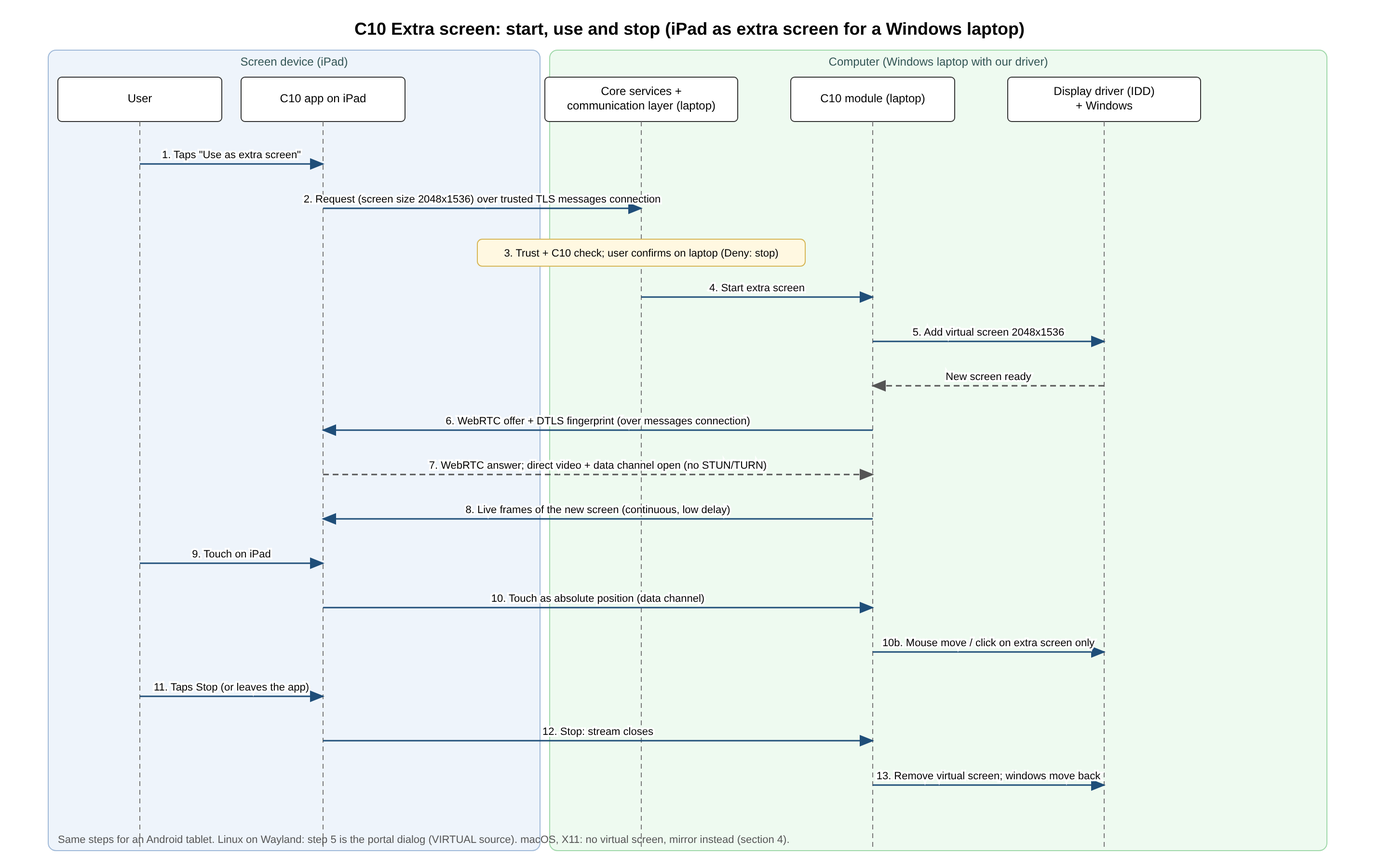
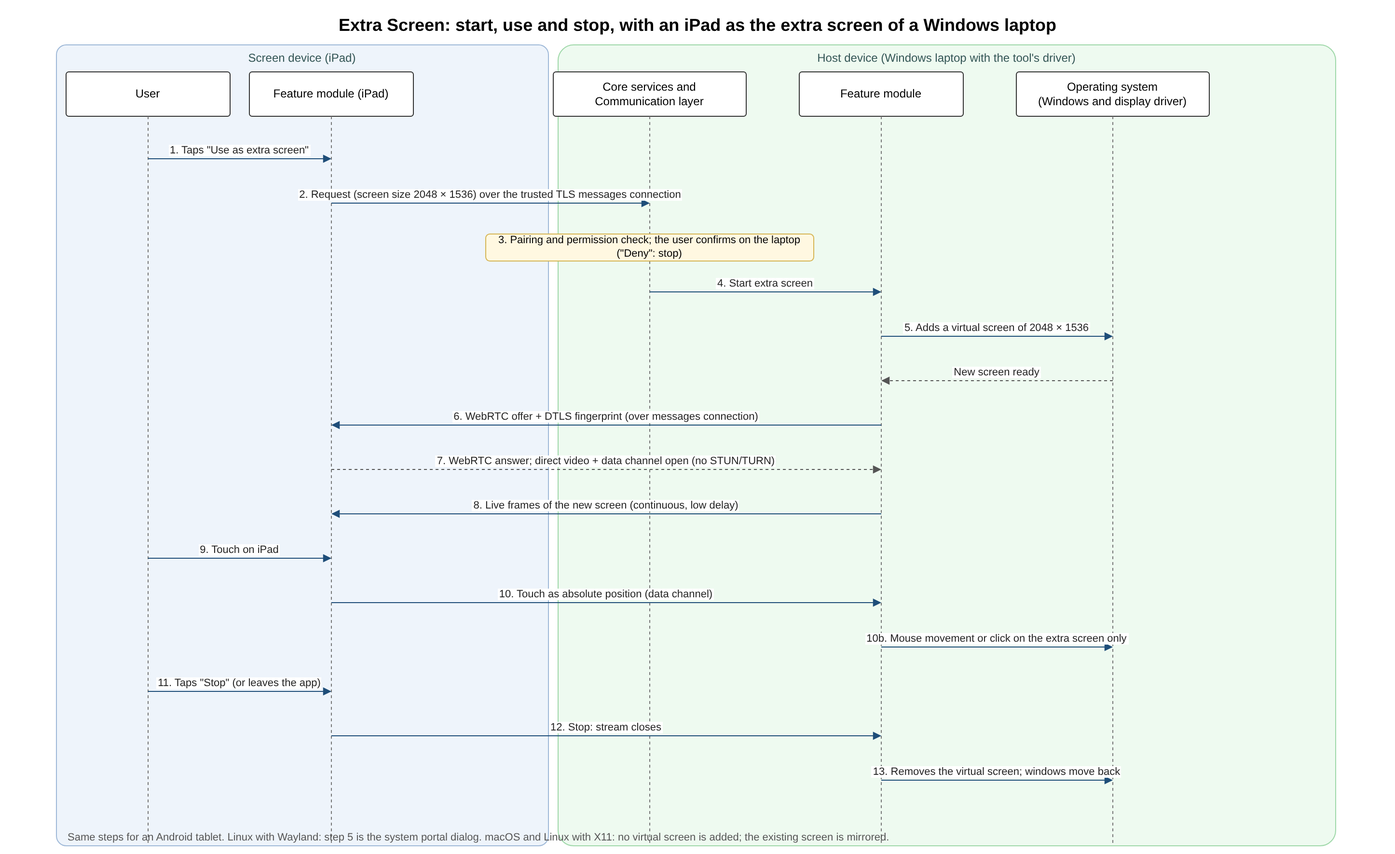
C10: rewrite for the user, state the macOS mirror-only limit and approval on both devices, diagram names from the naming list
Claude-Session: https://claude.ai/code/session_016Gejb1RDNtMpCisQEt9L9p

diff --git a/report/C10-extra-screen.md b/report/C10-extra-screen.md
@@ -1,113 +1,147 @@
-# C10: Extra screen (first version)
+# Extra Screen
 
-Owner: Ahmed. Status: first version, 8 Nov 2026. Phase 1 is design only: no code.
-Use another device (for example an iPad or an Android tablet) as a second monitor for a PC or laptop.
-Names follow `B1-architecture-v2.md` (device app, feature module, core services, communication layer). "Computer" = the PC or laptop that gets the extra screen; "screen device" = the tablet or phone that shows it. **Not checked** = not confirmed in a primary source or not tested. **[PROPOSAL]** = my suggestion, not agreed by the team.
+## 1. What the user sees and gains
 
-## 1. Making an extra virtual screen on the computer
+Extra Screen lets the user turn a tablet or phone they already own into a second monitor for their computer. Instead of buying a monitor, the user places an iPad or Android tablet next to the laptop, taps "Use as extra screen", and can drag windows onto it and use it by touch.
 
-| System | How a new (virtual) screen can be made | What it needs |
+Two devices take part. The **host device** is the PC or laptop that gains the extra screen. The **screen device** is the tablet or phone that shows it.
+
+What the user gets depends on the host device:
+
+- On **Windows** (with the tool's own signed display driver) and on **Linux with Wayland** (where the desktop offers a virtual monitor), the tool adds a **true extra screen**: the computer treats the tablet as a new monitor and the desktop becomes larger.
+- **macOS has no public way** for an app to add a screen, so on a Mac the tool **mirrors** the existing screen instead: the tablet shows a copy of the Mac's screen. The same happens on any other computer where an extra screen cannot be added, and the tool tells the user so.
+
+The user stays in control at all times:
+
+- The user must approve on **both devices, every time** a session starts: once on the screen device by tapping "Use as extra screen", and once on the host device by choosing "Allow". Nothing is remembered between sessions.
+- Either device can stop the session at any moment. When it stops, the extra screen is removed and its windows move back to the main screen, so nothing is lost on a screen nobody can see.
+- The picture travels only between the user's own paired devices on the local network, encrypted, and is never stored.
+
+## 2. Adding an extra screen on the host device
+
+| Operating system | How a new (virtual) screen can be added | What it needs |
 |---|---|---|
-| **Windows** | The **Indirect Display Driver (IDD)** model: "a simple user-mode driver model to support monitors that aren't connected to traditional GPU display outputs", listed for "creating virtual monitors" and "streaming the display output over a network to a remote client". Checked (Microsoft docs). Spacedesk works this way (its own driver). | **A driver.** It is user mode (UMDF), so no kernel code, but it must be installed (administrator) and signed. Microsoft: since Windows 10 1607 new kernel-mode drivers must be "signed by the Dev Portal"; "attestation signing supports Windows Desktop kernel mode and user mode drivers" and needs "an extended validation (EV) code signing certificate" through Partner Center; attestation is "for testing purposes only", retail needs the Hardware Compatibility Program (HLK tests). For development, `bcdedit -set TESTSIGNING ON` lets test-signed drivers load (shows "Test Mode"). Checked (Microsoft docs). That a **user-mode** IDD is bound by the same rule as kernel drivers: searched, not found (the UMDF signing page could not be opened). The cost of an EV certificate: **not checked**. |
-| **macOS** | **No public API found.** Apple documents no way for an app to add a display. Tools that do it use `CGVirtualDisplay`, which is **not in Apple's public documentation** (checked 8 Nov: Apple's doc data for it returns 404, while a public class like `CGDisplayStream` returns 200). Spacedesk has a macOS driver in beta (macOS 14.4+) with "Desktop Extension or Desktop Duplication (mirror)" settings; how it creates the screen: searched spacedesk's manual, not found. Apple's own way is Sidecar (iPad only). | A **private API** (not allowed on the Mac App Store, may break with any update). **[PROPOSAL]:** not used in v1; macOS gets mirroring (section 4). |
-| **Linux (X11)** | `xrandr --setmonitor` only defines a monitor over **existing** outputs (xrandr man page). Ways to get a new output: the **EVDI** kernel module ("a Linux kernel module that enables management of multiple screens", "compatible with a standard Linux DRM subsystem", so xrandr can drive it; DisplayLink README), or the old `intel` X driver option `VirtualHeads` ("the number of fake outputs to create"). Checked (docs). The `dummy` X driver: man page could not be opened, **not checked**. | A **kernel module** (EVDI, must be built for each kernel; not checked) or a specific X driver. **[PROPOSAL]:** not in v1, mirror instead. |
-| **Linux (Wayland)** | The ScreenCast portal has a source type **`VIRTUAL`: "Extend with new virtual monitor"** (next to `1: MONITOR` "Share existing monitors" and `2: WINDOW`; `VIRTUAL` is `4`). The desktop creates the monitor and gives us its picture; the user approves in the system dialog. Checked (xdg-desktop-portal docs). Which desktops offer it: **GNOME** (`xdg-desktop-portal-gnome` handles `SCREEN_CAST_SOURCE_TYPE_VIRTUAL` and asks Mutter for a `virtual_monitor`) and **KDE Plasma** (`xdg-desktop-portal-kde` has "Virtual Output" with a resolution picker); **not** `xdg-desktop-portal-wlr` (Sway and other wlroots desktops: only MONITOR and WINDOW). Checked in the portals' source code (8 Nov); which release first had it: **not checked**. KDE has a bug report about the size being fixed at 1920x1080. | **No driver.** Same portal as C9, so the same dialog. The `persist_mode` option can remember the approval ("until explicitly revoked"). |
+| **Windows** | The **Indirect Display Driver** model: a driver model that runs in user mode, made for monitors that are not connected to a graphics card output, including "creating virtual monitors" and "streaming the display output over a network to a remote client". Spacedesk works in this way, with its own driver. | **A signed driver.** It runs in user mode, so it contains no kernel code, but it must be installed by an administrator and signed. Since Windows 10 version 1607, new kernel-mode drivers must be signed through Microsoft's developer portal. Attestation signing covers kernel-mode and user-mode drivers and needs an extended validation (EV) code signing certificate; it is meant for testing, and a public release needs the Windows Hardware Compatibility Program. For development, test signing mode lets a test-signed driver load and shows "Test Mode" on the desktop. |
+| **macOS** | **No public way.** Apple documents no way for an app to add a display. Tools that do so use `CGVirtualDisplay`, which is not in Apple's public documentation. Spacedesk offers a macOS driver in beta (macOS 14.4 and later) with an extend and a mirror setting. Apple's own way is Sidecar, which works only with an iPad. | A **private interface**, which is not allowed on the Mac App Store and may stop working with any update. The tool does not use it, so on macOS the tool **mirrors** the screen (section 5). |
+| **Linux with X11** | `xrandr --setmonitor` only divides **existing** outputs. A new output needs the **EVDI** kernel module (which works with the standard Linux display system, so xrandr can drive it) or the `VirtualHeads` option of the old `intel` X driver, which creates "fake outputs". | A **kernel module** that must be built for each kernel, or a specific X driver. Not used in the first release: the tool mirrors instead. |
+| **Linux with Wayland** | The ScreenCast portal has a source type **"Extend with new virtual monitor"** (`VIRTUAL`). The desktop creates the monitor and passes its picture to the tool, after the user approves in the system dialog. GNOME (`xdg-desktop-portal-gnome`) and KDE Plasma (`xdg-desktop-portal-kde`, with a resolution picker) support it; the portal used by Sway and other wlroots desktops (`xdg-desktop-portal-wlr`) does not. KDE has a reported bug that fixes the size at 1920 × 1080. | **No driver.** The same portal and system dialog as Screen Sharing and Remote Control. The portal could remember the approval (`persist_mode`), but the tool does not use this (section 4). |
 
-Nobody in the team has a Mac or a Linux machine (A10): every macOS and Linux claim here is from the docs only, not tested.
+**Result.** A true extra screen is possible on **Windows, with the tool's own signed driver**, and on **Linux with Wayland, through the system portal and without a driver**. macOS has no public way, and Linux with X11 would need an extra kernel module, so on both the tool mirrors the screen.
 
-**Result:** a true extra screen is possible on **Windows (with our own driver)** and **Linux on Wayland (through the portal, no driver)**. macOS and Linux on X11 would need a private API or an extra driver.
+## 3. What the screen device can do
 
-## 2. What the screen device can do
-
-| Device | Show the stream | Send touch back as mouse | Limits |
+| Screen device | Showing the stream | Sending touch back as mouse input | Limits |
 |---|---|---|---|
-| **iPad** | Yes, while our app is open (WebRTC video, `flutter_webrtc`, B6). | Yes: our app reads the touches and sends them; the **computer** moves the mouse (C9 input, section 3). | **Foreground only**: when the user leaves the app or the iPad locks, iOS suspends the app and the stream stops (B6 section 6). `isIdleTimerDisabled` keeps the screen from sleeping while the app is open (Apple docs, meta text only; full page **not checked**). Apple Pencil pressure and hover: **not used in v1**. An iPad can never be the *computer* side: no public API to add a display or to control it (C9). |
-| **iPhone** | Same as iPad. | Same. | Same; small screen. **[PROPOSAL]:** allowed, but not the main case. |
-| **Android tablet** | Yes. | Yes, same as iPad. | Receiving needs no special permission. Keep the screen on with `FLAG_KEEP_SCREEN_ON` on our activity; Android docs: if the app "goes into the background, the system allows the screen to turn off normally". Checked. Background is not needed: the user is looking at it. |
+| **iPad** | Yes, while the app is open (WebRTC video through `flutter_webrtc`). | Yes. The app reads the touches and sends them; the host device moves the mouse (the same input path as Screen Sharing and Remote Control). | Works **only while the app is in front**: when the user leaves the app or the iPad locks, iOS suspends the app and the stream stops. `isIdleTimerDisabled` keeps the screen awake while the app is open. Apple Pencil pressure and hover are not used in the first release. An iPad can never be the host device, because there is no public way to add a display to it or to control it. |
+| **iPhone** | Same as iPad. | Same as iPad. | Same as iPad, with a small screen. Allowed, but not the main case. |
+| **Android tablet** | Yes. | Yes, as on the iPad. | Receiving needs no special permission. The app keeps the screen on with `FLAG_KEEP_SCREEN_ON`; if the app goes into the background, the screen may turn off normally. Background work is not needed, because the user is looking at the screen. |
 
-## 3. The stream: what is the same as C9, what is different
-**Same:** WebRTC as decided in B6 final (choice 3): setup messages over our trusted TLS messages connection, no STUN or TURN, DTLS fingerprint inside that connection, only between trusted devices (C1, C11). Touch and keyboard go on the WebRTC data channel.
+## 4. The stream
 
-**Different from screen sharing:**
-- **Continuous and low delay.** It is used like a monitor, so the target is **under 100 ms** from drawing to showing on the same Wi-Fi **[PROPOSAL, to test in Phase 2]**. When Wi-Fi is slow, lower the quality, not the frame rate first (WebRTC already adapts).
-- **Resolution comes from the screen device.** The virtual screen is created at the tablet's size (e.g. 2048x1536 for a common iPad, 1920x1200 for a tablet) so there is no scaling. Mirroring (section 4) uses the computer's size and adds black bars.
-- **The mouse can reach the extra screen.** In extend mode the OS treats it as a normal monitor; the user drags windows onto it. Touch on the tablet becomes an absolute mouse position on **that screen only** (Wayland: `NotifyPointerMotionAbsolute` on the stream, checked in the RemoteDesktop portal docs; Windows: `SendInput` as in C9).
-- **Approval: the user on both devices, every time** (C11 table and SEC-3). The user starts it on the screen device ("Use as extra screen") and confirms on the computer ("iPad wants to be an extra screen: Allow / Deny"). Plus the OS dialog where the OS demands it (Wayland portal, macOS Screen Recording). Nothing is remembered between sessions in v1 (Wayland `persist_mode` stays 0) **[PROPOSAL]**.
-- **Stops cleanly.** When the stream stops, the computer **removes** the virtual screen so windows move back and are not lost on an invisible monitor.
+**Shared with Screen Sharing and Remote Control.** The picture is sent with WebRTC, as decided in the Technology Choices chapter. The setup messages travel over the trusted messages connection, no STUN or TURN server is used, the DTLS fingerprint travels inside that connection, and sessions run only between paired devices. Touch and keyboard input travel on the WebRTC data channel.
 
-## 4. Fallback: mirror when a virtual screen is not possible
-If the computer cannot add a screen, the app **mirrors** an existing one (C9 capture, with the same approval on both devices every time, SEC-3). The user is told "Extra screen is not available on this computer; showing a copy of your screen".
+**Different from Screen Sharing and Remote Control:**
 
-| Computer | v1 gets |
+- **Continuous, with low delay.** The extra screen is used like a monitor, so the target is a delay **under 100 ms** from drawing to showing on the same Wi-Fi, to be tested in Phase 2. When the Wi-Fi is slow, the picture quality is lowered before the frame rate (WebRTC already adapts).
+- **The size comes from the screen device.** The virtual screen is created at the tablet's size (for example 2048 × 1536 for a common iPad, or 1920 × 1200 for an Android tablet), so the picture is not scaled. When mirroring (section 5), the host device's size is used and black bars are added.
+- **The mouse can reach the extra screen.** When the screen is extended, the operating system treats it as a normal monitor, and the user drags windows onto it. A touch on the tablet becomes an absolute mouse position on that screen only (on Wayland with `NotifyPointerMotionAbsolute` of the RemoteDesktop portal; on Windows with `SendInput`).
+- **Approval on both devices, every time.** The user starts the session on the screen device ("Use as extra screen") and confirms it on the host device ("iPad wants to be an extra screen: Allow / Deny"). The operating system's own dialog is added where the system requires one (the Wayland portal dialog, or Screen & System Audio Recording on macOS). Nothing is remembered between sessions: the portal's `persist_mode` is not used.
+- **A clean stop.** When the stream stops, the host device removes the virtual screen, so windows move back and are not lost on a monitor nobody can see.
+
+## 5. Mirroring when an extra screen cannot be added
+
+If the host device cannot add a screen, the tool **mirrors** an existing screen, using the same capture as Screen Sharing and Remote Control and the same approval on both devices every time. The user sees "Extra screen is not available on this computer; showing a copy of your screen".
+
+| Host device | First release |
 |---|---|
-| Windows 10/11 | **Extend** if our driver is installed; otherwise **mirror** |
-| Linux on Wayland (portal with `VIRTUAL`) | **Extend** |
-| Linux on Wayland without `VIRTUAL` (Sway and other wlroots desktops) | **Mirror** |
-| Linux on X11 | **Mirror** |
-| macOS | **Mirror** (Apple users can use Sidecar for extend) |
-| Android, iPhone, iPad as computer | **Not offered** (they are screen devices only) |
+| Windows 10 and 11 | **Extend** when the tool's signed driver is installed; otherwise **mirror** |
+| Linux with Wayland, desktop offers a virtual monitor (GNOME, KDE Plasma) | **Extend** |
+| Linux with Wayland, desktop without a virtual monitor (Sway and other wlroots desktops) | **Mirror** |
+| Linux with X11 | **Mirror** |
+| macOS | **Mirror only** (Apple's Sidecar remains available to iPad owners who want to extend) |
+| Android, iPhone, iPad | **Not offered**: these are screen devices only |
 
-Capability flags for C1 / B1 rule 5 **[PROPOSAL]**: a computer advertises `extra-screen: extend` or `extra-screen: mirror`; a device that can show the stream advertises `extra-screen-viewer`. The screen device shows the right button.
+Each host device tells the other devices whether it offers extend or mirror, and each device that can show the stream says so, so the screen device shows the right button.
 
-## 5. Compared with Spacedesk and Apple Sidecar (A5)
+## 6. Comparison with Spacedesk and Apple Sidecar
 
-| | Spacedesk | Apple Sidecar | Our C10 |
+| | Spacedesk | Apple Sidecar | Extra Screen in this tool |
 |---|---|---|---|
-| Computer | Windows 10/11 (macOS 14.4+ beta) | Mac, macOS 10.15+ | Windows (extend), Linux (extend or mirror), macOS (mirror) |
-| Screen device | Android, iOS, Windows, browser | iPad only (iPadOS 13+) | iPad, iPhone, Android tablet |
-| Connection | LAN, no account | Same Apple Account, wireless within 10 m or USB | Our trusted pairing (C1), local network only |
-| Touch back | Yes (touch or mouse) | Pencil; more touch from 27 | Touch as mouse; Pencil not in v1 |
+| Host device | Windows 10 and 11 (macOS 14.4 and later in beta) | Mac, macOS 10.15 and later | Windows (extend), Linux (extend or mirror), macOS (mirror only) |
+| Screen device | Android, iOS, Windows, web browser | iPad only (iPadOS 13 and later) | iPad, iPhone, Android tablet |
+| Connection | Local network, no account | Same Apple Account, wireless within 10 m or USB | The tool's own pairing, local network only |
+| Touch back | Yes (touch or mouse) | Apple Pencil; wider touch support from version 27 | Touch as mouse; Apple Pencil not in the first release |
 
-**We copy:** the driver approach on Windows (Spacedesk); one-tap start and removing the screen at the end (Sidecar).
-**We do differently:** no Apple account needed and mixed brands; the stream uses our pairing and encryption, not an open LAN service (Spacedesk needs a password to allow keyboard input from phones); honest mirror fallback where extend is not possible.
+**Taken from these products:** the driver approach on Windows (Spacedesk), and the one-tap start and the removal of the screen at the end (Sidecar).
 
-## 6. Starting an extra screen, step by step
-Diagram: `diagrams/C10-extra-screen-sequence.drawio` (PNG export next to it). Example: Windows laptop with our driver, iPad as extra screen.
+**Done differently:** no Apple account is needed and devices of different brands work together; the stream uses the tool's own pairing and encryption rather than an open network service (Spacedesk needs a password before it accepts keyboard input from phones); and the tool openly falls back to mirroring where extending is not possible.
 
-![C10 sequence](../diagrams/C10-extra-screen-sequence.png)
+## 7. Starting an extra screen, step by step
 
-- Steps 1-2: The user taps "Use as extra screen" on the iPad; the request goes over the trusted messages connection to the laptop.
-- Step 3: The laptop's core services check the iPad is trusted and C10 is allowed for it (C11), and the user confirms on the laptop (SEC-3). If the user taps Deny, or nobody answers, nothing more happens and the iPad shows "Not allowed".
-- Steps 4-5: The C10 module asks the driver for a new screen at the iPad's size; Windows adds it.
-- Steps 6-7: WebRTC setup messages (offer, answer, fingerprint) go over the messages connection; the video and data channel open directly.
-- Step 8: Frames of the new screen stream to the iPad.
-- Steps 9-10: A touch on the iPad goes back on the data channel; step 10b: it becomes a mouse move or click on that screen only.
-- Steps 11-13: Stop (either side, or the iPad app leaves the front): the stream closes and the laptop removes the virtual screen.
+The diagram shows a Windows laptop with the tool's driver as the host device and an iPad as the screen device.
 
-## 7. Requirements
-1. The app must let a trusted device be used as an extra screen only between devices of the same user that are paired (C1) and on the local network (B1 rules 1 and 2).
-2. The app must create a virtual screen at the screen device's resolution where the computer allows it (Windows with our driver, Linux Wayland portal `VIRTUAL`).
-3. The app must fall back to mirroring an existing screen where a virtual screen cannot be created, and tell the user so.
-4. The app must advertise `extra-screen: extend`, `extra-screen: mirror` or `extra-screen-viewer` for each device (B1 rule 5, C1).
-5. The app must send the screen as a WebRTC stream set up over the trusted messages connection, with no STUN or TURN servers (B6 choice 3).
-6. The app must turn touches on the screen device into mouse events on the extra screen only.
-7. The app must remove the virtual screen when the session ends for any reason, so no window is left on a screen nobody sees.
-8. The app must keep the screen device awake while it shows the extra screen, and stop the session when the app leaves the foreground on iPhone/iPad.
-9. The app must let the user stop the extra screen from either device at any time.
-10. The app must ask for the OS permission where the OS demands it (Wayland portal dialog, macOS Screen Recording), and must not use private APIs in v1.
-11. The app must ask the user on both devices every time before an extra screen starts (C11 SEC-3), and must never store the frames (C11 SEC-6).
+![Extra Screen: start, use and stop](../diagrams/C10-extra-screen-sequence.png)
 
-## Open points and who settles them
-- Windows driver: for Phase 2 a test-signed driver on our own test PC is enough; a public release needs an EV certificate and Microsoft signing. Mahmoud decides if Phase 2 goes beyond test signing; if not, other Windows PCs get mirror only.
-- Test that `VIRTUAL` works on Ubuntu 24.04 GNOME (whoever gets the Linux machine, B6 point 4).
-- macOS: test needs a Mac with Xcode (B6 decision 15, still open).
-- Delay target (100 ms) and test devices: A10 evaluation plan (Ahmed).
-- Per-feature permission for C10 and stream encryption: C11 (Ali). This file answers C11's open point "C10 approval": user on both devices, every time.
-- Capability flag names: C1 (Mahmoud).
-- WebRTC with no internet at all, app size, and whether capture needs native code (B6 final, still open).
+1. and 2. The user taps "Use as extra screen" on the iPad. The request, with the iPad's screen size, goes to the laptop over the trusted messages connection.
+3. The laptop's core services check that the iPad is paired and that Extra Screen is allowed for it, and the user confirms on the laptop. If the user chooses Deny, or nobody answers, nothing more happens and the iPad shows "Not allowed".
+4. and 5. The laptop's feature module asks the display driver for a new screen at the iPad's size, and Windows adds it.
+6. and 7. The WebRTC setup messages (offer, answer and fingerprint) travel over the messages connection; the video and the data channel then open directly between the two devices.
+8. Pictures of the new screen stream to the iPad.
+9. and 10. A touch on the iPad travels back on the data channel and becomes a mouse movement or click on the extra screen only.
+11. to 13. Either side taps Stop, or the iPad app leaves the front. The stream closes and the laptop removes the virtual screen.
 
-## Sources (opened 8 Nov 2026, read as text)
-- Windows IDD model: https://learn.microsoft.com/en-us/windows-hardware/drivers/display/indirect-display-driver-model-overview
-- xdg-desktop-portal ScreenCast (`VIRTUAL`, `persist_mode`): https://flatpak.github.io/xdg-desktop-portal/docs/doc-org.freedesktop.portal.ScreenCast.html
-- xdg-desktop-portal RemoteDesktop (`NotifyPointerMotionAbsolute`): https://flatpak.github.io/xdg-desktop-portal/docs/doc-org.freedesktop.portal.RemoteDesktop.html
-- KDE bug, virtual monitor fixed at 1920x1080: https://bugs.kde.org/show_bug.cgi?id=512620
-- xrandr man page: https://man.archlinux.org/man/xrandr.1
-- Apple Sidecar (requirements, same Apple Account, wireless within 10 m or USB, Pencil, expanded touch from iPadOS/macOS 27): https://support.apple.com/102597
-- Apple `isIdleTimerDisabled`: https://developer.apple.com/documentation/uikit/uiapplication/isidletimerdisabled
-- Apple `CGVirtualDisplay`: https://developer.apple.com/tutorials/data/documentation/coregraphics/cgvirtualdisplay.json returns 404 (not public); compare https://developer.apple.com/tutorials/data/documentation/coregraphics/cgdisplaystream.json (200)
-- Windows driver signing: https://learn.microsoft.com/en-us/windows-hardware/drivers/install/kernel-mode-code-signing-policy--windows-vista-and-later- ; https://learn.microsoft.com/en-us/windows-hardware/drivers/dashboard/driver-signing-offerings ; https://learn.microsoft.com/en-us/windows-hardware/drivers/dashboard/code-signing-attestation ; https://learn.microsoft.com/en-us/windows-hardware/drivers/install/the-testsigning-boot-configuration-option
-- Linux EVDI: https://github.com/DisplayLink/evdi ; intel(4) `VirtualHeads`: https://manpages.debian.org/testing/xserver-xorg-video-intel/intel.4.en.html
-- Portal source code (VIRTUAL support): https://github.com/GNOME/xdg-desktop-portal-gnome (`src/screencast.c`), https://github.com/KDE/xdg-desktop-portal-kde (`src/screencast.cpp`), https://github.com/emersion/xdg-desktop-portal-wlr (`src/screencast/`)
-- Android keep screen on: https://developer.android.com/develop/background-work/background-tasks/awake/screen-on
-- Spacedesk manual: https://manual.spacedesk.net/ ; system requirements: https://manual.spacedesk.net/SystemRequirements1.html ; touch, pen and keyboard input (touch as touch or emulated mouse; keyboard from Android/iOS viewers only with encryption/password, from version 2.2.11): https://manual.spacedesk.net/MouseKeyboardTouchscreenAndPenIn.html
-- Team files: `research/A5-existing-systems.md` (main), `B6-technology-final.md` (PR #42), C9 final (`report/C9-screen-sharing.md`, PR #51: section 3 WebRTC, section 6 requirements), `C11-security-privacy.md` (PR #49, table line for C10, SEC-3, SEC-6).
+An Android tablet follows the same steps. On Linux with Wayland, step 5 is the system portal dialog. On macOS and Linux with X11, no virtual screen is added and the existing screen is mirrored (section 5).
+
+## 8. Requirements
+
+1. The tool must allow a device to be used as an extra screen only between paired devices of the same user on the local network.
+2. The tool must add a true extra screen at the screen device's size on Windows (with the tool's own signed display driver) and on Linux with Wayland (where the desktop offers a virtual monitor).
+3. The tool must mirror the existing screen on macOS, and wherever an extra screen cannot be added, and must tell the user so.
+4. The tool must tell the other devices whether a host device offers extend or mirror, and whether a device can show the stream.
+5. The tool must send the screen as a WebRTC stream set up over the trusted messages connection, with no STUN or TURN server.
+6. The tool must turn touches on the screen device into mouse input on the extra screen only.
+7. The tool must remove the virtual screen when the session ends for any reason, so that no window is left on a screen nobody can see.
+8. The tool must keep the screen device awake while it shows the extra screen, and must stop the session when the app leaves the front on iPhone and iPad.
+9. The tool must let the user stop the extra screen from either device at any time.
+10. The tool must ask for the operating system's permission where the system requires it (the Wayland portal dialog, Screen & System Audio Recording on macOS), and must not use private interfaces in the first release.
+11. The tool must ask the user on both devices, every time, before an extra screen starts, and must never store the pictures.
+
+## 9. Limits and points still to verify
+
+No member of the team has a Mac or a Linux machine, so every macOS and Linux statement in this design comes from the documentation and has not been tested. The following points have also not yet been verified in a primary source:
+
+- Windows: whether a user-mode display driver falls under the same signing rule as kernel-mode drivers (the signing page for user-mode drivers could not be opened), and the cost of an EV certificate.
+- macOS: how Spacedesk's beta driver creates its screen (not described in its manual).
+- Linux with X11: the `dummy` X driver (its manual page could not be opened), and building EVDI for each kernel.
+- Linux with Wayland: which GNOME and KDE releases first offered the virtual monitor source.
+- iPhone and iPad: the full page of `isIdleTimerDisabled` (only its summary was read).
+
+## 10. Open points
+
+| Point | Settled by |
+|---|---|
+| Windows driver: a test-signed driver on the team's own test PC is enough for Phase 2; a public release needs an EV certificate and Microsoft signing. If Phase 2 does not go beyond test signing, other Windows PCs get mirroring only. | Project lead |
+| Test that the virtual monitor works on Ubuntu 24.04 with GNOME (started from a USB stick or a second partition) | Evaluation Plan |
+| macOS tests need a Mac with Xcode | Project lead |
+| Delay target of 100 ms and the test devices | Evaluation Plan |
+| Names of the capability flags | Device Discovery, Pairing and Trust |
+| WebRTC with no internet at all, the app size, and whether capture needs native code | Technology Choices |
+
+## References
+
+All pages were opened on 8 November 2026 and read as text.
+
+1. Microsoft, "Indirect display driver model overview": https://learn.microsoft.com/en-us/windows-hardware/drivers/display/indirect-display-driver-model-overview
+2. Microsoft, driver signing: https://learn.microsoft.com/en-us/windows-hardware/drivers/install/kernel-mode-code-signing-policy--windows-vista-and-later- ; https://learn.microsoft.com/en-us/windows-hardware/drivers/dashboard/driver-signing-offerings ; https://learn.microsoft.com/en-us/windows-hardware/drivers/dashboard/code-signing-attestation ; https://learn.microsoft.com/en-us/windows-hardware/drivers/install/the-testsigning-boot-configuration-option
+3. xdg-desktop-portal, ScreenCast portal (`VIRTUAL`, `persist_mode`): https://flatpak.github.io/xdg-desktop-portal/docs/doc-org.freedesktop.portal.ScreenCast.html
+4. xdg-desktop-portal, RemoteDesktop portal (`NotifyPointerMotionAbsolute`): https://flatpak.github.io/xdg-desktop-portal/docs/doc-org.freedesktop.portal.RemoteDesktop.html
+5. Portal source code (support for the virtual monitor): https://github.com/GNOME/xdg-desktop-portal-gnome (`src/screencast.c`), https://github.com/KDE/xdg-desktop-portal-kde (`src/screencast.cpp`), https://github.com/emersion/xdg-desktop-portal-wlr (`src/screencast/`)
+6. KDE bug report, virtual monitor fixed at 1920 × 1080: https://bugs.kde.org/show_bug.cgi?id=512620
+7. xrandr manual page: https://man.archlinux.org/man/xrandr.1
+8. DisplayLink, EVDI: https://github.com/DisplayLink/evdi ; intel(4) manual page, `VirtualHeads`: https://manpages.debian.org/testing/xserver-xorg-video-intel/intel.4.en.html
+9. Apple, `CGVirtualDisplay` is absent from Apple's documentation data (https://developer.apple.com/tutorials/data/documentation/coregraphics/cgvirtualdisplay.json returns 404, while the public class at https://developer.apple.com/tutorials/data/documentation/coregraphics/cgdisplaystream.json returns 200)
+10. Apple Support, Sidecar (requirements, same Apple Account, wireless within 10 m or USB, Apple Pencil, wider touch from version 27): https://support.apple.com/102597
+11. Apple, `isIdleTimerDisabled`: https://developer.apple.com/documentation/uikit/uiapplication/isidletimerdisabled
+12. Android Developers, "Keep the screen on": https://developer.android.com/develop/background-work/background-tasks/awake/screen-on
+13. Spacedesk manual: https://manual.spacedesk.net/ ; system requirements: https://manual.spacedesk.net/SystemRequirements1.html ; mouse, keyboard, touch and pen input: https://manual.spacedesk.net/MouseKeyboardTouchscreenAndPenIn.html
+14. Project report: Review of Existing Systems (Spacedesk and Sidecar); Technology Choices, final version (WebRTC); Screen Sharing and Remote Control (stream, input and requirements); Security and Privacy (approval on both devices every time, no stored pictures); Evaluation Plan (devices available for testing).
